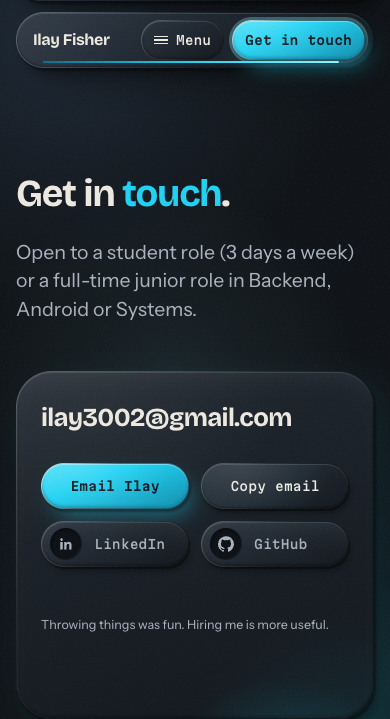
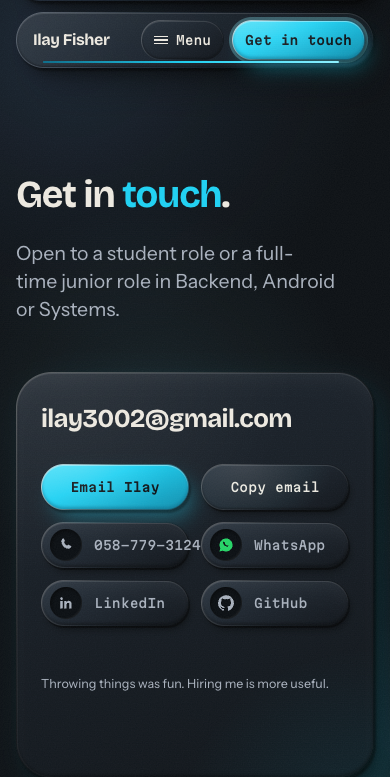
copy: new hero, phone and WhatsApp keys, no hours claim, About grid fix

diff --git a/src/content/content.test.ts b/src/content/content.test.ts
@@ -7,24 +7,36 @@ const isHttps = (u: string) => u.startsWith('https://') && URL.canParse(u);
 describe('profile', () => {
   it('has the identity fields from CONTENT.md', () => {
     expect(profile.name).toBe('Ilay Fisher');
-    expect(profile.thesis).toBe('I run a live Android app and its backend. 50+ active users.');
-    expect(profile.thesis.split(/\s+/).length).toBeLessThanOrEqual(12);
+    expect(profile.thesis).toBe(
+      "Hi, I'm Ilay. I study computer science and build Android apps and backends.",
+    );
+    expect(profile.thesis.split(/\s+/).length).toBeLessThanOrEqual(13);
     expect(profile.email).toBe('ilay3002@gmail.com');
     expect(profile.location).toBe('Sde Yaakov, Israel');
     expect(profile.photo).toBe('/images/ilay.jpg');
   });
 
-  it('has https links and no phone number', () => {
+  it('has https links and only the approved phone', () => {
     expect(isHttps(profile.links.linkedin)).toBe(true);
     expect(isHttps(profile.links.github)).toBe(true);
     expect(isHttps(profile.links.safesurf)).toBe(true);
-    expect(JSON.stringify(profile)).not.toMatch(/\+?\d[\d\s-]{8,}\d/);
+    expect(profile.phone).toBe('058-779-3124');
+    expect(profile.phoneHref).toBe('tel:+972587793124');
+    expect(profile.whatsapp).toBe('https://wa.me/972587793124');
+    // only the owner-approved number, and only in the phone field
+    const { phone: _p, phoneHref: _h, whatsapp: _w, ...rest } = profile;
+    void [_p, _h, _w];
+    expect(JSON.stringify(rest)).not.toMatch(/\+?\d[\d\s-]{8,}\d/);
   });
 
   it('aims the role and availability at student and junior roles, from the CVs', () => {
-    expect(profile.role).toContain('Student backend developer');
-    expect(profile.role).toContain('July 2027');
-    expect(profile.availability).toContain('student role (3 days a week)');
+    expect(profile.role).toBe(
+      "B.Sc. at Ruppin Academic Center, graduating July 2027. For the past year I've built and run SafeSurf and SafeGuard: Kotlin Android apps with a Firebase backend.",
+    );
+    expect(profile.about.lead).toContain('50+ active users');
+    expect(profile.availability).toBe(
+      'Open to a student role or a full-time junior role in Backend, Android or Systems.',
+    );
     expect(profile.availability).toContain('full-time junior role');
     expect(profile.availability).toContain('Backend, Android or Systems');
   });
@@ -36,8 +48,8 @@ describe('profile', () => {
     expect(profile.about.stack).toEqual(expect.arrayContaining(['Linux', 'SQL', 'GitHub Actions']));
   });
 
-  it('does not claim to have built it alone: another contributor worked on SafeGuard', () => {
-    expect(JSON.stringify(profile)).not.toMatch(/\balone\b|Solo-built/);
+  it('never says alone or solo: another contributor worked on SafeGuard', () => {
+    expect(JSON.stringify([profile, projects])).not.toMatch(/\b(alone|solo)\b|Solo-built/i);
     expect(JSON.stringify(profile)).toContain('another contributor');
   });
 

diff --git a/e2e/contact-keys.spec.ts b/e2e/contact-keys.spec.ts
@@ -1,11 +1,11 @@
 import { expect, test, type Page } from '@playwright/test';
 
-/** The two Contact keys, once the section is in view. */
+/** The four Contact keys, once the section is in view. */
 async function keys(page: Page) {
   const contact = page.locator('#contact');
   await contact.scrollIntoViewIfNeeded();
   const links = contact.locator('a.link-key');
-  await expect(links).toHaveCount(2);
+  await expect(links).toHaveCount(4);
   return { contact, links };
 }
 
@@ -19,13 +19,18 @@ for (const [name, size] of [
     await page.setViewportSize(size);
     await page.goto('/');
     const { contact, links } = await keys(page);
-    await expect(links.nth(0)).toHaveAttribute('href', /linkedin\.com\/in\//);
-    await expect(links.nth(1)).toHaveAttribute('href', /github\.com\//);
-    for (let i = 0; i < 2; i++) {
+    await expect(links.nth(0)).toHaveAttribute('href', 'tel:+972587793124');
+    await expect(links.nth(1)).toHaveAttribute('href', 'https://wa.me/972587793124');
+    await expect(links.nth(1)).toHaveAttribute('aria-label', 'Message Ilay on WhatsApp');
+    await expect(links.nth(2)).toHaveAttribute('href', /linkedin\.com\/in\//);
+    await expect(links.nth(3)).toHaveAttribute('href', /github\.com\//);
+    for (let i = 0; i < 4; i++) {
       const a = links.nth(i);
       await expect(a).toBeVisible();
-      await expect(a).toHaveAttribute('target', '_blank');
-      await expect(a).toHaveAttribute('rel', /noopener/);
+      if (i > 0) {
+        await expect(a).toHaveAttribute('target', '_blank');
+        await expect(a).toHaveAttribute('rel', /noopener/);
+      }
       await expect(a.locator('svg[aria-hidden="true"]')).toBeVisible();
       const box = (await a.boundingBox())!;
       expect(box.height).toBeGreaterThanOrEqual(44);
@@ -49,7 +54,7 @@ test('contact keys: hover lifts the key and moves the icon (motion on)', async (
   await page.setViewportSize({ width: 1440, height: 900 });
   await page.goto('/');
   const { links } = await keys(page);
-  const key = links.nth(1);
+  const key = links.nth(2);
   const transform = () => key.evaluate((a) => getComputedStyle(a).transform);
   const icon = () => key.evaluate((a) => getComputedStyle(a.querySelector('svg')!).transform);
   expect(await transform()).toBe('none');

diff --git a/src/sections/Contact/Contact.test.tsx b/src/sections/Contact/Contact.test.tsx
@@ -11,11 +11,9 @@ describe('Contact', () => {
     expect(document.getElementById('contact')).not.toBeNull();
     expect(screen.getByRole('heading', { level: 2 })).toBeInTheDocument();
     expect(
-      screen.getByText(
-        /student role \(3 days a week\) or a full-time junior role in Backend, Android or Systems/,
-      ),
+      screen.getByText(/student role or a full-time junior role in Backend, Android or Systems/),
     ).toBeVisible();
-    expect(screen.getByText(/3 days a week/)).toBeInTheDocument();
+    expect(document.body.textContent).not.toMatch(/days a week/);
   });
 
   it('has a primary mailto button whose href equals profile.email', () => {
@@ -47,12 +45,28 @@ describe('Contact', () => {
   it('keeps the mailto primary and the copy button as the loud controls', () => {
     render(<Contact />);
     expect(screen.getByRole('button', { name: /Copy email/ })).toHaveClass('btn');
-    expect(document.querySelectorAll('.contact .link-key')).toHaveLength(2);
+    expect(document.querySelectorAll('.contact .link-key')).toHaveLength(4);
   });
 
-  it('never shows a phone number', () => {
+  it('shows the approved phone as a tel: key next to the email, and no other number', () => {
     render(<Contact />);
-    expect(document.body.textContent).not.toMatch(/\+?\d[\d\s-]{8,}\d/);
+    const tel = screen.getByRole('link', { name: /Call Ilay/ });
+    expect(tel).toHaveAttribute('href', 'tel:+972587793124');
+    expect(tel).toHaveTextContent('058-779-3124');
+    expect(tel).toHaveClass('link-key');
+    expect(tel).not.toHaveAttribute('target');
+    const rest = (document.body.textContent ?? '').replaceAll('058-779-3124', '');
+    expect(rest).not.toMatch(/\+?\d[\d\s-]{8,}\d/);
+  });
+
+  it('has a WhatsApp key that opens wa.me in a new tab', () => {
+    render(<Contact />);
+    const wa = screen.getByRole('link', { name: 'Message Ilay on WhatsApp' });
+    expect(wa).toHaveAttribute('href', 'https://wa.me/972587793124');
+    expect(wa).toHaveAttribute('target', '_blank');
+    expect(wa).toHaveAttribute('rel', 'noopener noreferrer');
+    expect(wa).toHaveClass('link-key');
+    expect(wa).toHaveTextContent('WhatsApp');
   });
 
   it('copies the email to the clipboard and announces it politely', async () => {

diff --git a/src/content/profile.ts b/src/content/profile.ts
@@ -30,10 +30,16 @@ export interface Profile {
   /** Short role line under the name. */
   role: string;
   location: string;
-  /** The hero headline: what he runs today, with a number. */
+  /** The hero headline: a calm introduction. */
   thesis: string;
   availability: string;
   email: string;
+  /** Owner-approved (2026-11-19) for the Contact section only. */
+  phone: string;
+  /** `tel:` link for the phone. */
+  phoneHref: string;
+  /** WhatsApp chat link. */
+  whatsapp: string;
   /** Path under `public/` to the portrait. */
   photo: string;
   /** Initials for the monogram fallback when the photo fails. */
@@ -48,12 +54,14 @@ export interface Profile {
 /** Ilay Fisher's profile, transcribed from docs/CONTENT.md. */
 export const profile: Profile = {
   name: 'Ilay Fisher',
-  role: 'Student backend developer. Android and systems. B.Sc. Computer Science, graduating July 2027.',
+  role: "B.Sc. at Ruppin Academic Center, graduating July 2027. For the past year I've built and run SafeSurf and SafeGuard: Kotlin Android apps with a Firebase backend.",
   location: 'Sde Yaakov, Israel',
-  thesis: 'I run a live Android app and its backend. 50+ active users.',
-  availability:
-    'Open to a student role (3 days a week) or a full-time junior role in Backend, Android or Systems.',
+  thesis: "Hi, I'm Ilay. I study computer science and build Android apps and backends.",
+  availability: 'Open to a student role or a full-time junior role in Backend, Android or Systems.',
   email: 'ilay3002@gmail.com',
+  phone: '058-779-3124',
+  phoneHref: 'tel:+972587793124',
+  whatsapp: 'https://wa.me/972587793124',
   photo: '/images/ilay.jpg',
   initials: 'IF',
   links: {

diff --git a/src/components/LinkKey/LinkKey.tsx b/src/components/LinkKey/LinkKey.tsx
@@ -1,7 +1,7 @@
 import type { PointerEvent, ReactNode } from 'react';
 import './LinkKey.css';
 
-export { GitHubIcon, LinkedInIcon, MailIcon } from './icons';
+export { GitHubIcon, LinkedInIcon, MailIcon, PhoneIcon, WhatsAppIcon } from './icons';
 
 const ext = { target: '_blank', rel: 'noopener noreferrer' } as const;
 
@@ -20,7 +20,9 @@ export interface LinkKeyProps {
   /** Decorative glyph (aria-hidden); the label is the accessible name. */
   icon: ReactNode;
   /** Picks the icon's own hover move. */
-  kind: 'linkedin' | 'github' | 'mail';
+  kind: 'linkedin' | 'github' | 'mail' | 'phone' | 'whatsapp';
+  /** Accessible name when it should say more than the visible label (it must contain it). */
+  label?: string;
   /** Opens in a new tab with `rel="noopener noreferrer"` and says so to screen readers. */
   external?: boolean;
   children: ReactNode;
@@ -32,13 +34,14 @@ export interface LinkKeyProps {
  * footer and the Contact section. It leans toward the pointer through `data-magnetic`
  * (the `translate` property), so it never fights its own hover `transform`.
  */
-export function LinkKey({ href, icon, kind, external, children }: LinkKeyProps) {
+export function LinkKey({ href, icon, kind, external, label, children }: LinkKeyProps) {
   return (
     <a
       className="link-key"
       data-key={kind}
       data-magnetic
       href={href}
+      aria-label={label}
       onPointerMove={trackPointer}
       {...(external ? ext : {})}
     >

diff --git a/src/content/projects.ts b/src/content/projects.ts
@@ -65,7 +65,7 @@ export const projects: Project[] = [
     status: 'Live demo',
     challenge: "Block the drone's route.",
     summary:
-      'Solo project. A browser sandbox where a drone plans and re-plans its route through a city grid in real time. The pathfinding engine is C++17 compiled to WebAssembly.',
+      'A browser sandbox where a drone plans and re-plans its route through a city grid in real time. The pathfinding engine is C++17 compiled to WebAssembly.',
     points: [
       'A* searches from scratch on every replan. D* Lite keeps its values and repairs only what changed.',
       '8-connected grid, octile heuristic, no corner cutting. Wind zones cost 4x.',
@@ -98,7 +98,7 @@ export const projects: Project[] = [
     status: 'Benchmarked',
     challenge: 'Find what changed.',
     summary:
-      'Solo project. Hybrid classical CV and vision-language model inspection. OpenCV finds where something changed between a baseline and a target image in about 10 ms; a VLM is asked what changed, only on the cropped regions.',
+      'Hybrid classical CV and vision-language model inspection. OpenCV finds where something changed between a baseline and a target image in about 10 ms; a VLM is asked what changed, only on the cropped regions.',
     points: [
       'Deterministic localization, probabilistic interpretation. Do the cheap thing first.',
       'The model only sees the regions that changed, not the whole frame.',

diff --git a/src/sections/Contact/index.tsx b/src/sections/Contact/index.tsx
@@ -1,6 +1,12 @@
 import { useEffect, useRef, useState } from 'react';
 import { Button, LinkButton } from '../../components/Button/Button';
-import { GitHubIcon, LinkedInIcon, LinkKey } from '../../components/LinkKey/LinkKey';
+import {
+  GitHubIcon,
+  LinkedInIcon,
+  LinkKey,
+  PhoneIcon,
+  WhatsAppIcon,
+} from '../../components/LinkKey/LinkKey';
 import { Section } from '../../components/Section/Section';
 import { profile } from '../../content/profile';
 import { createLogger } from '../../lib/logger';
@@ -52,6 +58,23 @@ export default function Contact() {
             Email Ilay
           </LinkButton>
           <Button onClick={() => void copy()}>Copy email</Button>
+          <LinkKey
+            kind="phone"
+            href={profile.phoneHref}
+            icon={<PhoneIcon />}
+            label={`Call Ilay, ${profile.phone}`}
+          >
+            {profile.phone}
+          </LinkKey>
+          <LinkKey
+            kind="whatsapp"
+            href={profile.whatsapp}
+            icon={<WhatsAppIcon />}
+            label="Message Ilay on WhatsApp"
+            external
+          >
+            WhatsApp
+          </LinkKey>
           <LinkKey kind="linkedin" href={profile.links.linkedin} icon={<LinkedInIcon />} external>
             LinkedIn
           </LinkKey>

diff --git a/src/content/caseStudies.ts b/src/content/caseStudies.ts
@@ -90,7 +90,7 @@ export const caseStudies: CaseStudy[] = [
   {
     id: 'drone',
     metaDescription:
-      'Drone sandbox: C++17 A* and D* Lite compiled to WebAssembly, replanning a route in real time. Solo project with React, Fastify and PostgreSQL.',
+      'Drone sandbox: C++17 A* and D* Lite compiled to WebAssembly, replanning a route in real time. React, Fastify and PostgreSQL.',
     problem: [
       'A drone has a route through a city grid. Then an obstacle lands on it.',
       'The planner has to answer again, fast, every time something changes, while the page keeps drawing at 60 FPS.',
@@ -137,7 +137,7 @@ export const caseStudies: CaseStudy[] = [
   {
     id: 'xray',
     metaDescription:
-      'X-Ray Lens: Python, OpenCV and FastAPI. Sending only the changed regions to a vision model cut image tokens by about 95%. Solo project.',
+      'X-Ray Lens: Python, OpenCV and FastAPI. Sending only the changed regions to a vision model cut image tokens by about 95%.',
     problem: [
       'Asking a vision model about a whole image is slow and costly, and most of the image has not changed.',
       'I wanted to find what changed between a baseline and a target image, then have a model say what it is.',

diff --git a/src/components/LinkKey/icons.tsx b/src/components/LinkKey/icons.tsx
@@ -63,3 +63,31 @@ export function MailIcon(props: IconProps) {
     </svg>
   );
 }
+
+/** A filled phone handset. */
+export function PhoneIcon(props: IconProps) {
+  return (
+    <svg {...base} {...props}>
+      <path
+        fill="currentColor"
+        d="M6.6 2.5c.5-.5 1.3-.4 1.7.1l2 2.8c.3.5.3 1.1-.1 1.5L9 8.1c1 2.1 2.8 3.9 4.9 4.9l1.2-1.2c.4-.4 1-.4 1.5-.1l2.8 2c.5.4.6 1.2.1 1.7l-1.3 1.4c-.9.9-2.2 1.2-3.4.8C9.700 16.200 7.800 14.300 6.300 11.100c-.9-1.900-1.300-3.600-1.300-4.700 0-.8.3-1.600.9-2.200z"
+      />
+    </svg>
+  );
+}
+
+/** A speech bubble with a handset cut into it; the glyph (not the key) carries the WhatsApp green. */
+export function WhatsAppIcon(props: IconProps) {
+  return (
+    <svg {...base} {...props}>
+      <path
+        fill="currentColor"
+        d="M12 2.2a9.800 9.800 0 0 0-8.400 14.800L2.200 21.800l5-1.300A9.800 9.800 0 1 0 12 2.200z"
+      />
+      <path
+        fill="var(--key-well)"
+        d="M8.900 7.300c.3-.4.800-.4 1 0l.8 1.600c.1.300 0 .5-.2.700l-.5.500c.6 1.200 1.500 2.100 2.700 2.700l.5-.5c.2-.2.5-.3.7-.2l1.600.8c.4.200.4.700 0 1-.9.800-1.800 1-2.800.6-2.500-1-4.100-2.700-5.100-5.200-.4-1-.1-1.900.6-2.700z"
+      />
+    </svg>
+  );
+}

diff --git a/e2e/contact-presence.spec.ts b/e2e/contact-presence.spec.ts
@@ -60,9 +60,7 @@ for (const [name, size] of [
   ['390', { width: 390, height: 844 }],
   ['360', { width: 360, height: 780 }],
 ] as const) {
-  test(`contact actions: one clean row or an even 2 + 2, never 3 + 1, at ${name}`, async ({
-    page,
-  }) => {
+  test(`contact actions: one clean row or an even 2 + 2 + 2, at ${name}`, async ({ page }) => {
     await page.setViewportSize(size);
     await page.goto('/');
     const actions = page.locator('#contact .contact__actions');
@@ -73,10 +71,10 @@ for (const [name, size] of [
         return { top: Math.round(r.top), left: r.left, right: r.right };
       }),
     );
-    expect(boxes).toHaveLength(4);
+    expect(boxes).toHaveLength(6);
     const rows = [...new Set(boxes.map((b) => b.top))];
     const perRow = rows.map((t) => boxes.filter((b) => Math.abs(b.top - t) <= 2).length);
-    const shape = size.width >= 900 ? [4] : [2, 2];
+    const shape = size.width >= 900 ? [6] : [2, 2, 2];
     expect(perRow, `${name}px rows`).toEqual(shape);
     for (const b of boxes) {
       expect(b.left).toBeGreaterThanOrEqual(0);

diff --git a/src/content/caseStudies.test.ts b/src/content/caseStudies.test.ts
@@ -30,8 +30,8 @@ describe('case studies', () => {
     expect(find('xray').numbers?.map((n) => n.value)).toEqual(['~95%', '43.7%', '4/4']);
   });
 
-  it('does not say the SafeSurf case was built alone', () => {
-    expect(JSON.stringify(caseStudies.find((c) => c.id === 'safesurf'))).not.toMatch(/\balone\b/);
+  it('never says alone or solo', () => {
+    expect(JSON.stringify(caseStudies)).not.toMatch(/\b(alone|solo)\b/i);
   });
 
   it('every image is a webp under public/', () => {

diff --git a/src/sections/About/About.css b/src/sections/About/About.css
@@ -157,6 +157,10 @@
   .spec {
     grid-template-columns: repeat(2, minmax(0, 1fr));
   }
+  /* an odd last card spans the row, so none sits alone */
+  .about__built .spec-card:last-child:nth-child(odd) {
+    grid-column: 1 / -1;
+  }
 }
 @media (min-width: 960px) {
   .about__grid {
